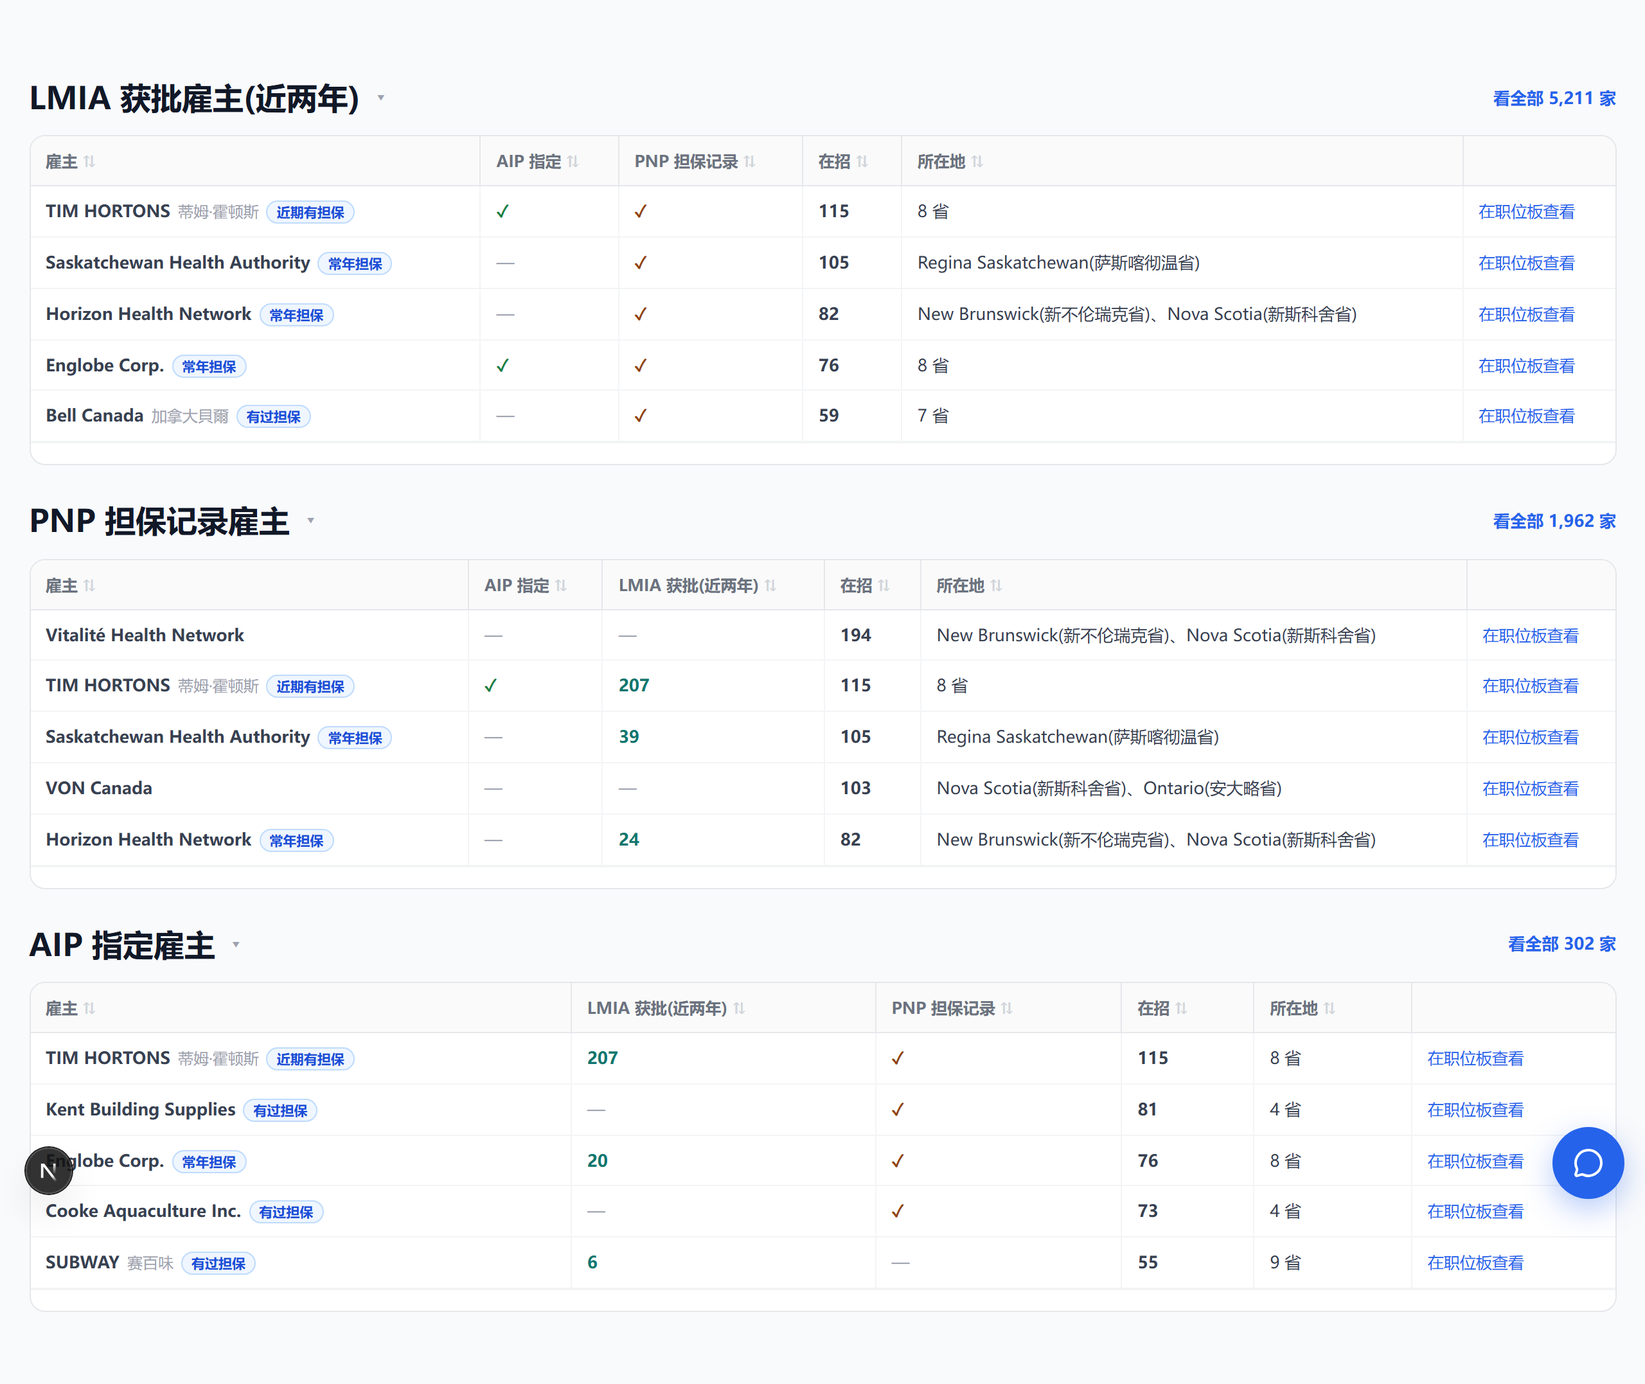
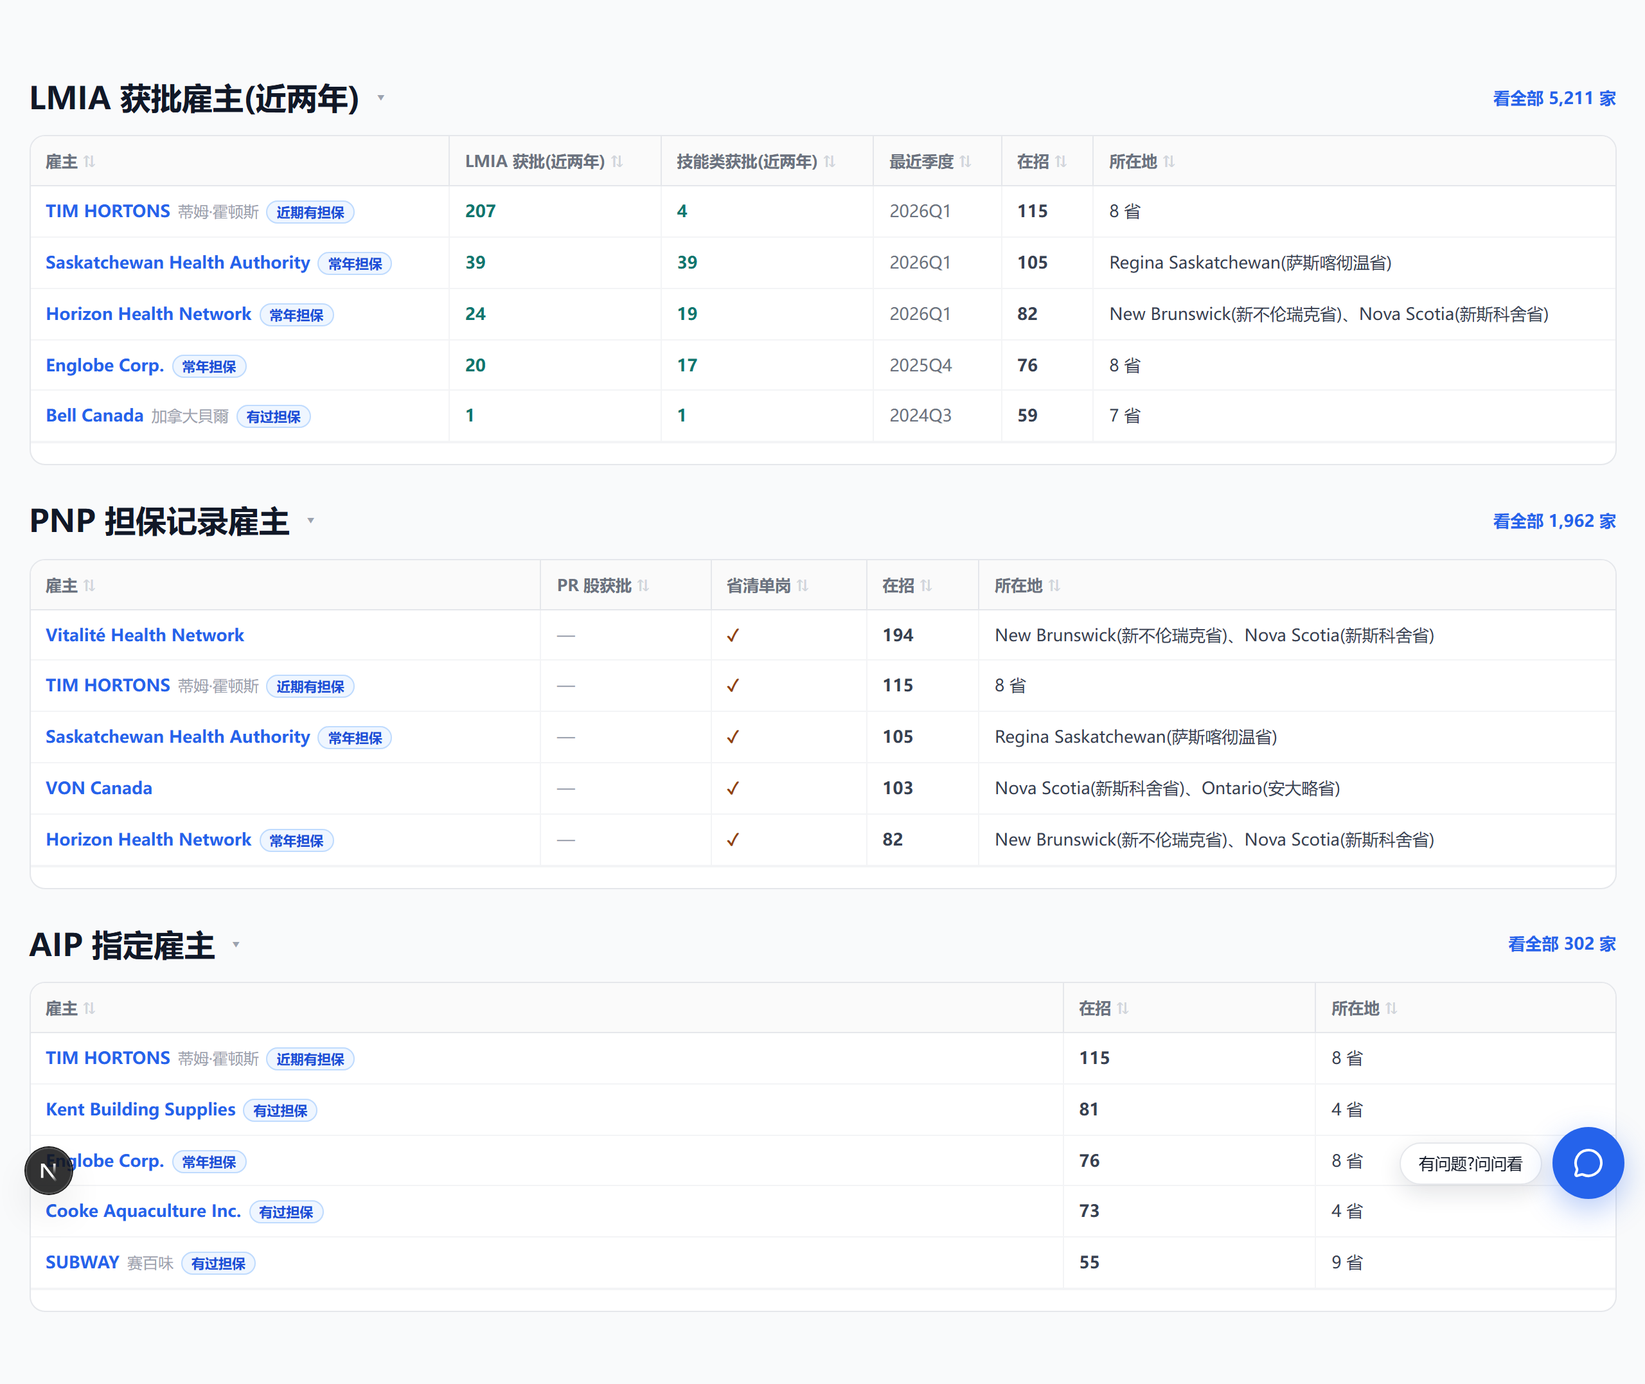
feat(web): 三分表字段按人群重设计(Frank 08-08 收口连拍)
每表只描述自己那条通道:LMIA=获批/技能类/最近季度;PNP=PR 股获批/省清单岗;AIP=只留在招/所在地;
货架页点凭证 chip 切对应列组。「在职位板查看」钮退役(雇主名即链接);榜A「先省内工作 6 个月」灰行删
(Frank「闪电=删掉」,细则归弹框 whyCond)。三语齐,tsc 净。

diff --git a/cms/src/app/(frontend)/employers/SponsorEmployersView.tsx b/cms/src/app/(frontend)/employers/SponsorEmployersView.tsx
@@ -37,47 +37,61 @@ function href(p: Partial<SponsorQuery>, cur: SponsorQuery) {
   return '/employers' + (s ? `?${s}` : '')
 }
 
-// 凭证三列(Frank 08-08「包含什么列要清晰划分,不要杂糅」):AIP 指定 / LMIA 获批(近两年)/ 紧缺清单
-// 各占一列,✓/数字/—;把脉页 TOP10 与本页共用同一列定义(改一处两边同变)
+// 按人群分表的列组(Frank 08-08 三拍:每表只描述自己那条通道):
+// lmia 表(没工签→要雇主办 LMIA):获批量/技能类/最近季度;
+// named 表(有工签→要打包省提名):PR 股获批(担保过移民的硬证)/省清单岗;
+// aip 表(去海洋省):指定身份即表题,行内只留 在招/所在地;'' = 货架总览(三凭证并列)。
 const NIL = <span style={{ color: '#9ca3af' }}>—</span>
-export function sponsorEmployerCols(t: TFn, lang: Lang, drop: string[] = []) {
-  return [
-    { key: 'name', label: t('dir.col.employer'), sort: (r: SponsorEmployerRow) => r.name.toLowerCase(), render: (r: SponsorEmployerRow) => {
-      const alias = lang === 'zh' ? r.aliasZh : lang === 'ko' ? r.aliasKo : ''
-      return <span style={{ fontWeight: 600 }}>
-        {r.name}
-        {alias ? <span style={{ marginLeft: 6, color: '#9ca3af', fontWeight: 400, fontSize: 12 }}>{alias}</span> : null}
-        {r.sponsorGrade != null && <span title={t('gr.sponsorTip')} style={{ marginLeft: 6, fontSize: 10.5, padding: '1px 7px', borderRadius: 999, background: '#eff6ff', border: '1px solid #bfdbfe', color: '#1d4ed8', whiteSpace: 'nowrap' }}>{t('gr.sp.' + r.sponsorGrade)}</span>}
-      </span> } },
-    { key: 'aip', label: t('se.chip.aip'), nowrap: true, sort: (r: SponsorEmployerRow) => (r.aip ? 1 : 0), render: (r: SponsorEmployerRow) => (r.aip ? <span style={{ color: '#15803d', fontWeight: 700 }}>✓</span> : NIL) },
-    { key: 'lmia', label: t('se.col.lmia'), nowrap: true, sort: (r: SponsorEmployerRow) => r.lmiaPositions, render: (r: SponsorEmployerRow) => (r.lmiaPositions > 0 ? <span style={{ color: '#0f766e', fontWeight: 700 }}>{r.lmiaPositions}</span> : NIL) },
-    // Frank 08-08:第三维≠职业清单,=这家雇主担没担保过移民——PR 股 LMIA 获批数为主证(直陈数),
-    // 发过省清单岗 ✓ 为次级信号;两者全无 —
-    { key: 'named', label: t('se.col.named'), nowrap: true, sort: (r: SponsorEmployerRow) => r.lmiaPr * 1000 + (r.named ? 1 : 0), render: (r: SponsorEmployerRow) => (r.lmiaPr > 0 ? <span style={{ color: '#92400e', fontWeight: 700 }}>{t('se.pr', { n: r.lmiaPr })}</span> : r.named ? <span style={{ color: '#92400e', fontWeight: 700 }}>✓</span> : NIL) },
-    { key: 'open', label: t('se.col.open'), nowrap: true, sort: (r: SponsorEmployerRow) => r.openJobs, render: (r: SponsorEmployerRow) => <span style={{ fontWeight: 700 }}>{r.openJobs}</span> },
-    { key: 'where', label: t('se.col.where'), sort: (r: SponsorEmployerRow) => r.provs[0] ?? null, render: (r: SponsorEmployerRow) => <>{whereText(r, t)}</> },
-    { key: 'go', label: '', nowrap: true, render: (r: SponsorEmployerRow) => <a href={`/?q=${encodeURIComponent(r.name)}`} onClick={() => track('se-view-jobs')} style={{ color: UI.primary, textDecoration: 'none', fontSize: 12.5 }}>{t('rank.viewJobs')}</a> },
-  ].filter((c) => !drop.includes(c.key))
+export type SponsorKind = '' | 'aip' | 'lmia' | 'named'
+export function sponsorEmployerCols(t: TFn, lang: Lang, kind: SponsorKind = '') {
+  const name = { key: 'name', label: t('dir.col.employer'), sort: (r: SponsorEmployerRow) => r.name.toLowerCase(), render: (r: SponsorEmployerRow) => {
+    const alias = lang === 'zh' ? r.aliasZh : lang === 'ko' ? r.aliasKo : ''
+    return <span style={{ fontWeight: 600 }}>
+      <a href={`/?q=${encodeURIComponent(r.name)}`} onClick={() => track('se-view-jobs')} style={{ color: UI.primary, textDecoration: 'none' }}>{r.name}</a>
+      {alias ? <span style={{ marginLeft: 6, color: '#9ca3af', fontWeight: 400, fontSize: 12 }}>{alias}</span> : null}
+      {r.sponsorGrade != null && <span title={t('gr.sponsorTip')} style={{ marginLeft: 6, fontSize: 10.5, padding: '1px 7px', borderRadius: 999, background: '#eff6ff', border: '1px solid #bfdbfe', color: '#1d4ed8', whiteSpace: 'nowrap' }}>{t('gr.sp.' + r.sponsorGrade)}</span>}
+    </span> } }
+  const aip = { key: 'aip', label: t('se.chip.aip'), nowrap: true, sort: (r: SponsorEmployerRow) => (r.aip ? 1 : 0), render: (r: SponsorEmployerRow) => (r.aip ? <span style={{ color: '#15803d', fontWeight: 700 }}>✓</span> : NIL) }
+  const lmia = { key: 'lmia', label: t('se.col.lmia'), nowrap: true, sort: (r: SponsorEmployerRow) => r.lmiaPositions, render: (r: SponsorEmployerRow) => (r.lmiaPositions > 0 ? <span style={{ color: '#0f766e', fontWeight: 700 }}>{r.lmiaPositions}</span> : NIL) }
+  const skilled = { key: 'skilled', label: t('dir.col.skilled'), nowrap: true, sort: (r: SponsorEmployerRow) => r.lmiaPositionsSkilled ?? null, render: (r: SponsorEmployerRow) => (r.lmiaPositionsSkilled ? <span style={{ color: '#0f766e', fontWeight: 700 }}>{r.lmiaPositionsSkilled}</span> : NIL) }
+  const quarter = { key: 'quarter', label: t('dir.col.quarter'), nowrap: true, sort: (r: SponsorEmployerRow) => r.lmiaLastQuarter || null, render: (r: SponsorEmployerRow) => (r.lmiaLastQuarter ? <span style={{ color: '#6b7280' }}>{r.lmiaLastQuarter}</span> : NIL) }
+  const pr = { key: 'pr', label: t('se.col.pr'), nowrap: true, sort: (r: SponsorEmployerRow) => r.lmiaPr, render: (r: SponsorEmployerRow) => (r.lmiaPr > 0 ? <span style={{ color: '#92400e', fontWeight: 700 }}>{r.lmiaPr}</span> : NIL) }
+  const namedJobs = { key: 'namedJobs', label: t('se.col.namedJobs'), nowrap: true, sort: (r: SponsorEmployerRow) => (r.named ? 1 : 0), render: (r: SponsorEmployerRow) => (r.named ? <span style={{ color: '#92400e', fontWeight: 700 }}>✓</span> : NIL) }
+  const namedMix = { key: 'named', label: t('se.col.named'), nowrap: true, sort: (r: SponsorEmployerRow) => r.lmiaPr * 1000 + (r.named ? 1 : 0), render: (r: SponsorEmployerRow) => (r.lmiaPr > 0 ? <span style={{ color: '#92400e', fontWeight: 700 }}>{t('se.pr', { n: r.lmiaPr })}</span> : r.named ? <span style={{ color: '#92400e', fontWeight: 700 }}>✓</span> : NIL) }
+  const open = { key: 'open', label: t('se.col.open'), nowrap: true, sort: (r: SponsorEmployerRow) => r.openJobs, render: (r: SponsorEmployerRow) => <span style={{ fontWeight: 700 }}>{r.openJobs}</span> }
+  const where = { key: 'where', label: t('se.col.where'), sort: (r: SponsorEmployerRow) => r.provs[0] ?? null, render: (r: SponsorEmployerRow) => <>{whereText(r, t)}</> }
+  if (kind === 'lmia') return [name, lmia, skilled, quarter, open, where]
+  if (kind === 'named') return [name, pr, namedJobs, open, where]
+  if (kind === 'aip') return [name, open, where]
+  return [name, aip, lmia, namedMix, open, where]
 }
 
-export function SponsorCard({ r, lang, t }: { r: SponsorEmployerRow; lang: Lang; t: TFn }) {
+export function SponsorCard({ r, lang, t, kind = '' }: { r: SponsorEmployerRow; lang: Lang; t: TFn; kind?: SponsorKind }) {
   const alias = lang === 'zh' ? r.aliasZh : lang === 'ko' ? r.aliasKo : ''
+  const NILC = <span style={{ color: '#9ca3af' }}>—</span>
+  const kv: { k: string; v: React.ReactNode }[] = []
+  if (kind === 'lmia') {
+    kv.push({ k: t('se.col.lmia'), v: r.lmiaPositions > 0 ? <b style={{ color: '#0f766e' }}>{r.lmiaPositions}</b> : NILC })
+    kv.push({ k: t('dir.col.skilled'), v: r.lmiaPositionsSkilled ? <b style={{ color: '#0f766e' }}>{r.lmiaPositionsSkilled}</b> : NILC })
+    kv.push({ k: t('dir.col.quarter'), v: r.lmiaLastQuarter || NILC })
+  } else if (kind === 'named') {
+    kv.push({ k: t('se.col.pr'), v: r.lmiaPr > 0 ? <b style={{ color: '#92400e' }}>{r.lmiaPr}</b> : NILC })
+    kv.push({ k: t('se.col.namedJobs'), v: r.named ? <b style={{ color: '#92400e' }}>✓</b> : NILC })
+  } else if (kind !== 'aip') {
+    kv.push({ k: t('se.chip.aip'), v: r.aip ? <b style={{ color: '#15803d' }}>✓</b> : NILC })
+    kv.push({ k: t('se.col.lmia'), v: r.lmiaPositions > 0 ? <b style={{ color: '#0f766e' }}>{r.lmiaPositions}</b> : NILC })
+    kv.push({ k: t('se.col.named'), v: r.lmiaPr > 0 ? <b style={{ color: '#92400e' }}>{t('se.pr', { n: r.lmiaPr })}</b> : r.named ? <b style={{ color: '#92400e' }}>✓</b> : NILC })
+  }
+  kv.push({ k: t('se.col.open'), v: <span style={{ fontWeight: 700 }}>{r.openJobs}</span> })
+  kv.push({ k: t('se.col.where'), v: whereText(r, t) })
   return (
     <Card>
       <div style={{ fontSize: 14.5, fontWeight: 600 }}>
-        {r.name}
+        <a href={`/?q=${encodeURIComponent(r.name)}`} onClick={() => track('se-view-jobs')} style={{ color: UI.primary, textDecoration: 'none' }}>{r.name}</a>
         {r.sponsorGrade != null && <span title={t('gr.sponsorTip')} style={{ marginLeft: 6, fontSize: 10.5, padding: '1px 7px', borderRadius: 999, background: '#eff6ff', border: '1px solid #bfdbfe', color: '#1d4ed8', fontWeight: 600, whiteSpace: 'nowrap' }}>{t('gr.sp.' + r.sponsorGrade)}</span>}
       </div>
       {alias ? <div style={{ fontSize: 12.5, color: '#9ca3af', marginTop: 2 }}>{alias}</div> : null}
-      {/* 凭证一行一条(Frank 08-08 拆列拍板;卡上=KV 行,与桌面三列同语义) */}
-      <CardKV items={[
-        { k: t('se.chip.aip'), v: r.aip ? <span style={{ color: '#15803d', fontWeight: 700 }}>✓</span> : <span style={{ color: '#9ca3af' }}>—</span> },
-        { k: t('se.col.lmia'), v: r.lmiaPositions > 0 ? <span style={{ color: '#0f766e', fontWeight: 700 }}>{r.lmiaPositions}</span> : <span style={{ color: '#9ca3af' }}>—</span> },
-        { k: t('se.col.named'), v: r.lmiaPr > 0 ? <span style={{ color: '#92400e', fontWeight: 700 }}>{t('se.pr', { n: r.lmiaPr })}</span> : r.named ? <span style={{ color: '#92400e', fontWeight: 700 }}>✓</span> : <span style={{ color: '#9ca3af' }}>—</span> },
-        { k: t('se.col.open'), v: <span style={{ fontWeight: 700 }}>{r.openJobs}</span> },
-        { k: t('se.col.where'), v: whereText(r, t) },
-      ]} />
-      <CardAction><a href={`/?q=${encodeURIComponent(r.name)}`} onClick={() => track('se-view-jobs')} style={{ color: UI.primary, textDecoration: 'none' }}>{t('rank.viewJobs')}</a></CardAction>
+      <CardKV items={kv} />
     </Card>
   )
 }
@@ -148,11 +162,11 @@ export function SponsorEmployersView({ query, items, total, occTitle, pro = fals
         <div style={{ fontSize: 12, color: '#9ca3af', margin: '0 0 12px' }}>{t('se.note')}</div>
 
         <div className="tcCards">
-          {items.map((r) => <SponsorCard key={r.name} r={r} lang={lang} t={t} />)}
+          {items.map((r) => <SponsorCard key={r.name} r={r} lang={lang} t={t} kind={(query.f as SponsorKind) || ''} />)}
           {items.length === 0 && <div style={{ padding: 24, textAlign: 'center', color: '#9ca3af', fontSize: 13 }}>{t('dir.empty')}</div>}
         </div>
         <div className="tcTableWrap">
-          <DataTable<SponsorEmployerRow> rows={items} rowKey={(r) => r.name} empty={t('dir.empty')} cols={sponsorEmployerCols(t, lang)} />
+          <DataTable<SponsorEmployerRow> rows={items} rowKey={(r) => r.name} empty={t('dir.empty')} cols={sponsorEmployerCols(t, lang, (query.f as SponsorKind) || '')} />
         </div>
         <div style={{ display: 'flex', alignItems: 'center', gap: 14, margin: '12px 0', fontSize: 12.5, color: '#6b7280', flexWrap: 'wrap' }}>
           <span>{t('dir.total', { n: total })} · {t('dir.page', { p: query.page + 1, m: pages })}</span>

diff --git a/cms/src/app/(frontend)/jobs/i18n.ts b/cms/src/app/(frontend)/jobs/i18n.ts
@@ -887,7 +887,7 @@ const zh: Dict = {
   'se.title': '在招担保雇主', 'se.sub': '现在就在招人、且有担保凭证的雇主',
   'se.chip.all': '全部', 'se.chip.aip': 'AIP 指定', 'se.chip.lmia': 'LMIA 历史', 'se.chip.named': 'PNP 担保记录',
   'se.col.open': '在招', 'se.col.where': '所在地', 'se.where.multi': '{n} 省',
-  'se.col.lmia': 'LMIA 获批(近两年)', 'se.myFilter': '按我的档案筛', 'se.export': '导出名单 CSV', 'rpt.emp.all': '在担保雇主页看全部', 'se.col.named': 'PNP 担保记录', 'se.pr': 'PR {n}',
+  'se.col.lmia': 'LMIA 获批(近两年)', 'se.myFilter': '按我的档案筛', 'se.export': '导出名单 CSV', 'rpt.emp.all': '在担保雇主页看全部', 'se.col.named': 'PNP 担保记录', 'se.pr': 'PR {n}', 'se.col.pr': 'PR 股获批', 'se.col.namedJobs': '省清单岗',
   'se.grp.aip': 'AIP 指定雇主', 'se.grp.lmia': 'LMIA 获批雇主(近两年)', 'se.grp.named': 'PNP 担保记录雇主', 'se.top.all': '看全部 {n} 家', 'pulse.nav.boards': '职业榜',
   'se.sort.open': '按在招岗数', 'se.sort.skilled': '按技能类获批',
   'se.occFilter': '职业:{name}', 'se.note': '凭证=官方名录与历史事实,为粗筛信号非担保承诺。',
@@ -1741,7 +1741,7 @@ const en: Dict = {
   'se.title': 'Sponsor employers hiring now', 'se.sub': 'Employers hiring right now with sponsorship records',
   'se.chip.all': 'All', 'se.chip.aip': 'AIP designated', 'se.chip.lmia': 'LMIA history', 'se.chip.named': 'PNP sponsorship record',
   'se.col.open': 'Open jobs', 'se.col.where': 'Location', 'se.where.multi': '{n} provinces',
-  'se.col.lmia': 'LMIA approved (2 yrs)', 'se.myFilter': 'Filter by my profile', 'se.export': 'Export CSV', 'rpt.emp.all': 'See all on the sponsor employers page', 'se.col.named': 'PNP sponsorship record', 'se.pr': 'PR {n}',
+  'se.col.lmia': 'LMIA approved (2 yrs)', 'se.myFilter': 'Filter by my profile', 'se.export': 'Export CSV', 'rpt.emp.all': 'See all on the sponsor employers page', 'se.col.named': 'PNP sponsorship record', 'se.pr': 'PR {n}', 'se.col.pr': 'PR-stream approved', 'se.col.namedJobs': 'Provincial-list jobs',
   'se.grp.aip': 'AIP designated employers', 'se.grp.lmia': 'LMIA-approved employers (2 yrs)', 'se.grp.named': 'Employers with PNP sponsorship records', 'se.top.all': 'See all {n} employers', 'pulse.nav.boards': 'Occupation boards',
   'se.sort.open': 'Most open jobs', 'se.sort.skilled': 'Most skilled LMIA',
   'se.occFilter': 'Occupation: {name}', 'se.note': 'Records are official lists and history — a rough signal, not a promise to sponsor.',
@@ -2590,7 +2590,7 @@ const ko: Dict = {
   'se.title': '채용 중인 스폰서 고용주', 'se.sub': '지금 채용 중이며 스폰서 이력이 있는 고용주',
   'se.chip.all': '전체', 'se.chip.aip': 'AIP 지정', 'se.chip.lmia': 'LMIA 이력', 'se.chip.named': 'PNP 스폰서 이력',
   'se.col.open': '채용 중', 'se.col.where': '지역', 'se.where.multi': '{n}개 주',
-  'se.col.lmia': 'LMIA 승인(2년)', 'se.myFilter': '내 프로필로 필터', 'se.export': 'CSV 내보내기', 'rpt.emp.all': '스폰서 고용주 페이지에서 전체 보기', 'se.col.named': 'PNP 스폰서 이력', 'se.pr': 'PR {n}',
+  'se.col.lmia': 'LMIA 승인(2년)', 'se.myFilter': '내 프로필로 필터', 'se.export': 'CSV 내보내기', 'rpt.emp.all': '스폰서 고용주 페이지에서 전체 보기', 'se.col.named': 'PNP 스폰서 이력', 'se.pr': 'PR {n}', 'se.col.pr': 'PR 스트림 승인', 'se.col.namedJobs': '주 목록 공고',
   'se.grp.aip': 'AIP 지정 고용주', 'se.grp.lmia': 'LMIA 승인 고용주(2년)', 'se.grp.named': 'PNP 스폰서 이력 고용주', 'se.top.all': '전체 {n}곳 보기', 'pulse.nav.boards': '직업 보드',
   'se.sort.open': '채용 많은 순', 'se.sort.skilled': '기술직 승인 많은 순',
   'se.occFilter': '직업: {name}', 'se.note': '이력은 공식 명단·기록으로 참고 신호이며 스폰서 약속이 아닙니다.',

diff --git a/cms/src/app/(frontend)/start/StartView.tsx b/cms/src/app/(frontend)/start/StartView.tsx
@@ -25,7 +25,7 @@ import { JobCard } from '../ui/JobCard'
 import { DataTable, DTPager, type DTCol } from '../ui/DataTable'
 import { BANNER_IMGS, Chip, PageBanner, PageShell, Tag, UI } from '../ui/primitives'
 import { track } from '@/lib/track'
-import { SponsorCard, sponsorEmployerCols } from '../employers/SponsorEmployersView'
+import { SponsorCard, sponsorEmployerCols, type SponsorKind } from '../employers/SponsorEmployersView'
 import type { SponsorEmployerRow } from '@/lib/sponsorEmployers'
 
 // 抽选行 + 冷解读三标量(近 12 期同通道的期数/最低/最高,服务端算好,见 start/page.tsx)
@@ -170,7 +170,7 @@ function OccBoard({ rows, t, lang, nocProvs, showProvs = true, deadCol = false, 
           {t('pulse.provs.n', { n: ok.size })}
           {missing.length ? <span style={{ color: UI.danger, marginLeft: 6 }}>{t('pulse.dead.cell', { provs: missing.join('、') })}</span> : null}
         </span>
-        {cond.length ? <span style={{ display: 'block', fontSize: 12, color: UI.text3 }}>{`${t('pulse.provs.cond')} ${cond.join('、')}`}</span> : null}
+        {/* 「先省内工作 6 个月」灰行 08-08 Frank 拍删(细则归 PNP 弹框 whyCond,榜上只留可走面) */}
       </span>
     )
   }
@@ -484,13 +484,13 @@ export function StartView({ stats }: { stats: HomeStats }) {
         {/* ── 在招担保雇主橱窗三分表(Frank 08-08:按人群拆——没工签→LMIA、有工签→PNP 担保记录、
             想去海洋省→AIP;各表删自己的常量凭证列;TOP5+看全部,货架与筛选在 /employers)── */}
         <Band id="pl-se">
-          {([['lmia', stats.sponsor.lmia, ['lmia'], 'f=lmia'], ['named', stats.sponsor.named, ['named'], 'f=named'], ['aip', stats.sponsor.aip, ['aip'], 'f=aip']] as [string, { top: SponsorEmployerRow[]; total: number }, string[], string][]).map(([k, grp, drop, qs]) => (
+          {([['lmia', stats.sponsor.lmia, 'f=lmia'], ['named', stats.sponsor.named, 'f=named'], ['aip', stats.sponsor.aip, 'f=aip']] as [string, { top: SponsorEmployerRow[]; total: number }, string][]).map(([k, grp, qs]) => (
             grp.top.length > 0 ? (
               <div key={k} style={{ marginTop: k === 'lmia' ? 0 : 24 }}>
                 <Sec id={'se-' + k} title={t('se.grp.' + k)}
                   right={<a href={'/employers?' + qs} onClick={() => track('pulse-se-all')} style={moreA}>{t('se.top.all', { n: num(grp.total) })}</a>}>
-                  <div className="plTable"><DataTable<SponsorEmployerRow> rows={grp.top} cols={sponsorEmployerCols(t, lang, drop)} rowKey={(r) => r.name} pageSize={5} /></div>
-                  <div className="plCards">{grp.top.slice(0, 3).map((r) => <SponsorCard key={r.name} r={r} lang={lang} t={t} />)}</div>
+                  <div className="plTable"><DataTable<SponsorEmployerRow> rows={grp.top} cols={sponsorEmployerCols(t, lang, k as SponsorKind)} rowKey={(r) => r.name} pageSize={5} /></div>
+                  <div className="plCards">{grp.top.slice(0, 3).map((r) => <SponsorCard key={r.name} r={r} lang={lang} t={t} kind={k as SponsorKind} />)}</div>
                 </Sec>
               </div>
             ) : null

diff --git a/docs/implementation/在招担保雇主/03_B3_个人化与付费衔接.md b/docs/implementation/在招担保雇主/03_B3_个人化与付费衔接.md
@@ -57,6 +57,13 @@
 - S4b 省 chips → 全名下拉(城市级=职业×城市聚合未落库,E14 数据到再点亮第三级);
 - 二级导航条挂「就业把脉」属主前缀;**聚合缓存过期改回旧值+后台刷新**(生产两次池楔死后的保险,聚合不再站在请求路径上)。
 
+## 2d. 字段重设计二轮(Frank 08-08 连拍收口)
+
+- 每表只描述自己那条通道:LMIA 表=获批/技能类/最近季度;PNP 表=PR 股获批/省清单岗;AIP 表=只留在招/所在地;
+  货架页「全部」态保留三凭证总览列,点凭证 chip 即切对应列组(桌面表+手机卡同语义)。
+- 「在职位板查看」钮退役,雇主名即链接(/?q=名称);「闪电」实为「删掉」——榜A「先省内工作 6 个月」灰行删
+  (细则归 PNP 弹框 whyCond)。
+
 ## 6. 现有代码 / 备注 + 完成定义(DoD)
 
 - Pro 判定=`lib/entitlement.{getUser,isPro}`(/api/report 同款);档案字段 `nocCodes/targetProvinces` 已在 profile。
